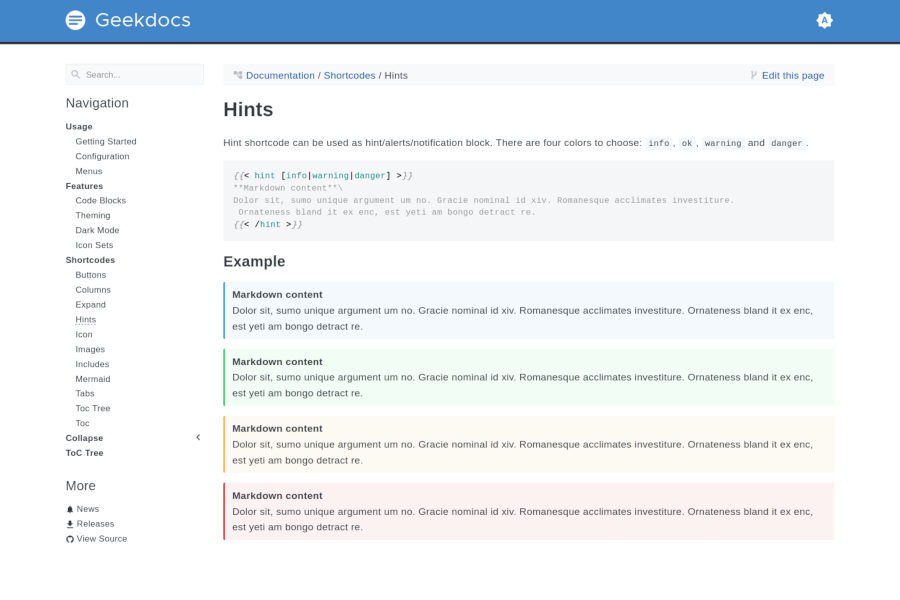
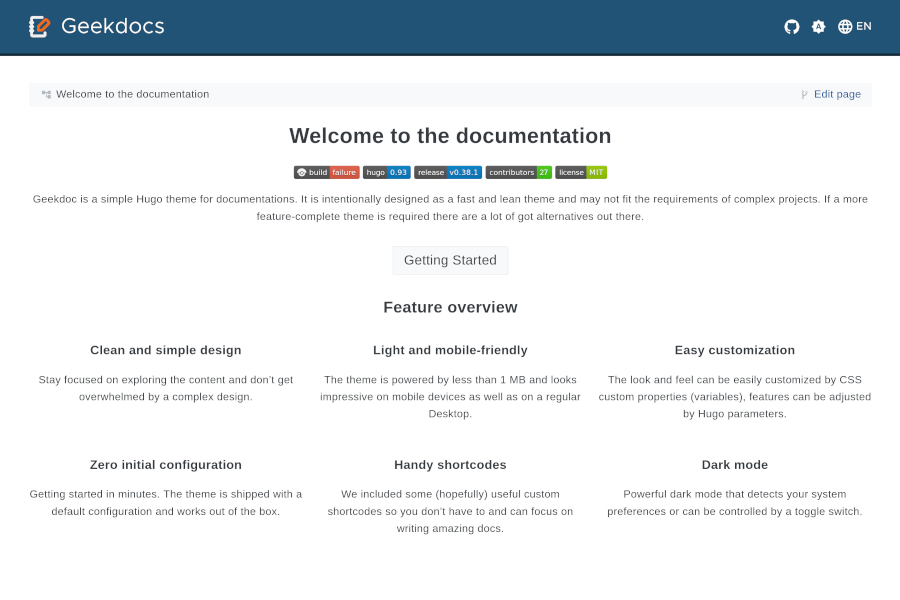
fix: adjust default color scheme to fix some contrast issues (#610)
BREAKING CHANGE: This change has adjusted the default color scheme and brand icon. There is no real functional break, but since the look and feel has changed, you might consider this as such.

diff --git a/src/sass/_defaults.scss b/src/sass/_defaults.scss
@@ -2,6 +2,7 @@
 $padding-2: 0.125rem !default;
 $padding-4: 0.25rem !default;
 $padding-8: 0.5rem !default;
+$padding-12: 0.75rem !default;
 $padding-16: 1rem !default;
 $padding-20: 1.25rem !default;
 $padding-24: 1.5rem !default;
@@ -42,7 +43,7 @@ $black: rgba(0, 0, 0, 1) !default;
 
 $link-color: rgba(10, 83, 154, 1) !default;
 $link-color-visited: rgba(119, 73, 191, 1) !default;
-$link-color-footer: rgba(255, 163, 30, 1) !default;
+$link-color-footer: rgba(246, 107, 14, 1) !default;
 
 $body-background: white !default;
 $body-font-color: $gray-800 !default;
@@ -52,21 +53,20 @@ $body-min-width: 20rem !default;
 $code-font-color: rgba(70, 70, 70, 1) !default;
 $code-font-color-dark: rgba(185, 185, 185, 1) !default;
 
-$body-background-dark: $gray-800 !default;
-$body-font-color-dark: $gray-100 !default;
-
 $container-max-width: 82rem !default;
 
-$main-color: rgba(65, 134, 201, 1) !default;
-$second-color: rgba(47, 51, 62, 1) !default;
+$main-color: rgba(32, 83, 117, 1) !default;
+$second-color: rgba(17, 43, 60, 1) !default;
 $mark-color: rgba(255, 171, 0, 1) !default;
 
 $body-background-dark: mix(invert($body-background, 75%), $second-color) !default;
+$body-font-color-dark: $gray-100 !default;
+
 $link-color-dark: rgba(110, 168, 212, 1) !default;
 $link-color-visited-dark: rgba(186, 142, 240) !default;
 
 $code-background: $gray-100 !default;
-$code-background-dark: darken($body-background-dark, 2) !default;
+$code-background-dark: darken($body-background-dark, 3) !default;
 
 $header-height: 3.5rem !default;
 $menu-width: 18rem !default;

diff --git a/src/sass/_base.scss b/src/sass/_base.scss
@@ -162,7 +162,7 @@ img {
   width: 100%;
   max-width: $container-max-width;
   margin: 0 auto;
-  padding: $padding-16;
+  padding: $padding-20;
 }
 
 svg.gdoc-icon {
@@ -272,7 +272,7 @@ svg.gdoc-icon {
     }
 
     li {
-      margin: $padding-8 0;
+      margin: $padding-12 0;
     }
 
     svg.gdoc-icon {
@@ -748,6 +748,10 @@ svg.gdoc-icon {
 
 .gdoc-toc {
   margin: $padding-16 0;
+
+  li {
+    margin: $padding-4 0;
+  }
 
   // Classes to hide nested levels of ToC/Menu
   &__level--1 ul ul,

diff --git a/webpack.config.js b/webpack.config.js
@@ -60,8 +60,8 @@ var config = {
     new WebpackFavicons({
       src: path.resolve("src", "static", "favicon", "favicon.svg"),
       path: "favicon/",
-      background: "#2f333e",
-      theme_color: "#2f333e",
+      background: "#efefef",
+      theme_color: "#efefef",
       icons: {
         android: { offset: 10 },
         appleIcon: { offset: 10 },

diff --git a/src/sass/_markdown.scss b/src/sass/_markdown.scss
@@ -1,5 +1,5 @@
 .gdoc-markdown {
-  line-height: $padding-24;
+  line-height: 1.6rem;
 
   h1,
   h2,

diff --git a/exampleSite/content/en/features/theming/_index.md b/exampleSite/content/en/features/theming/_index.md
@@ -53,9 +53,9 @@ If you want to add more Favicon formats you have to [overwrite](https://gohugo.i
 <link rel="icon" type="image/png" sizes="32x32" href="{{ "favicon/favicon-32x32.png" | relURL }}">
 <link rel="icon" type="image/png" sizes="16x16" href="{{ "favicon/favicon-16x16.png" | relURL }}">
 <link rel="manifest" href="{{ "favicon/site.webmanifest" | relURL }}">
-<link rel="mask-icon" href="{{ "favicon/safari-pinned-tab.svg" | relURL }}" color="#2f333e">
-<meta name="msapplication-TileColor" content="#2f333e">
-<meta name="theme-color" content="#2f333e">
+<link rel="mask-icon" href="{{ "favicon/safari-pinned-tab.svg" | relURL }}" color="#efefef">
+<meta name="msapplication-TileColor" content="#efefef">
+<meta name="theme-color" content="#efefef">
 ```
 
 Happy customizing!
